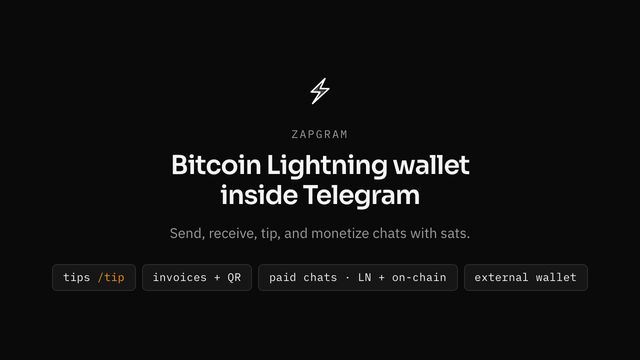
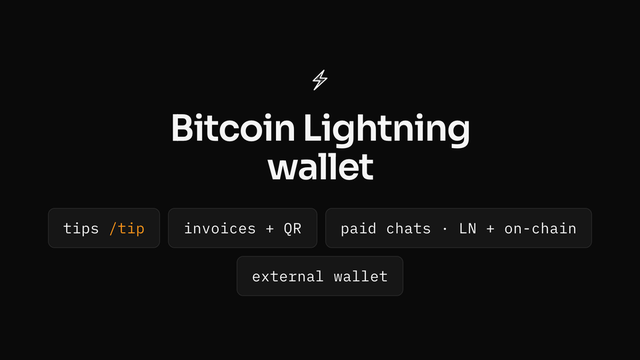
feat: update bot description media and rendering process

diff --git a/landing/public/assets/bot-description-card-ru.html b/landing/public/assets/bot-description-card-ru.html
@@ -2,7 +2,7 @@
 <html lang="ru">
   <head>
     <meta charset="utf-8" />
-    <meta name="viewport" content="width=640" />
+    <meta name="viewport" content="width=960" />
     <title>ZapGram · bot description RU</title>
     <style>
       /* Sora has no Cyrillic — IBM Plex for consistent RU glyphs */
@@ -22,24 +22,6 @@
         font-weight: 600;
         font-display: block;
         src: url('./fonts/ibm-plex-sans-cyrillic-600-normal.woff2') format('woff2');
-        unicode-range: U+0301, U+0400-045F, U+0490-0491, U+04B0-04B1, U+2116;
-      }
-      @font-face {
-        font-family: 'IBM Plex Sans';
-        font-style: normal;
-        font-weight: 400;
-        font-display: block;
-        src: url('./fonts/ibm-plex-sans-latin-400-normal.woff2') format('woff2');
-        unicode-range: U+0000-00FF, U+0131, U+0152-0153, U+02BB-02BC, U+02C6, U+02DA, U+02DC,
-          U+0304, U+0308, U+0329, U+2000-206F, U+20AC, U+2122, U+2191, U+2193, U+2212, U+2215,
-          U+FEFF, U+FFFD;
-      }
-      @font-face {
-        font-family: 'IBM Plex Sans';
-        font-style: normal;
-        font-weight: 400;
-        font-display: block;
-        src: url('./fonts/ibm-plex-sans-cyrillic-400-normal.woff2') format('woff2');
         unicode-range: U+0301, U+0400-045F, U+0490-0491, U+04B0-04B1, U+2116;
       }
       @font-face {
@@ -69,8 +51,8 @@
 
       html,
       body {
-        width: 640px;
-        height: 360px;
+        width: 960px;
+        height: 540px;
         overflow: hidden;
         background: #0a0a0a;
         color: #f5f5f5;
@@ -80,21 +62,21 @@
       }
 
       .card {
-        width: 640px;
-        height: 360px;
+        width: 960px;
+        height: 540px;
         display: flex;
         flex-direction: column;
         align-items: center;
         justify-content: center;
-        padding: 28px 32px 30px;
+        padding: 28px 28px 32px;
         text-align: center;
         background: #0a0a0a;
       }
 
       .mark {
-        width: 48px;
-        height: 48px;
-        margin-bottom: 12px;
+        width: 56px;
+        height: 56px;
+        margin-bottom: 16px;
         flex-shrink: 0;
         background: #0a0a0a;
       }
@@ -106,55 +88,35 @@
         object-fit: contain;
       }
 
-      .brand {
-        font-family: 'IBM Plex Mono', ui-monospace, monospace;
-        font-weight: 400;
-        font-size: 11px;
-        letter-spacing: 0.14em;
-        text-transform: uppercase;
-        color: #9a9a9a;
-        margin-bottom: 10px;
-      }
-
       h1 {
         font-family: 'IBM Plex Sans', system-ui, sans-serif;
         font-weight: 600;
-        font-size: 24px;
-        line-height: 1.15;
+        font-size: 50px;
+        line-height: 1.1;
         letter-spacing: -0.025em;
-        max-width: 20ch;
+        max-width: 16ch;
         color: #f5f5f5;
-      }
-
-      p {
-        margin-top: 12px;
-        font-family: 'IBM Plex Sans', system-ui, sans-serif;
-        font-weight: 400;
-        font-size: 14px;
-        line-height: 1.45;
-        color: #9a9a9a;
-        max-width: 30rem;
       }
 
       .chips {
         display: flex;
         flex-wrap: wrap;
         justify-content: center;
-        gap: 6px;
-        margin-top: 20px;
-        max-width: 580px;
+        gap: 12px;
+        margin-top: 32px;
+        max-width: 900px;
       }
 
       .chip {
         font-family: 'IBM Plex Mono', ui-monospace, monospace;
-        font-size: 11px;
+        font-size: 22px;
         line-height: 1;
         letter-spacing: 0.02em;
         color: #f5f5f5;
         background: #161616;
         border: 1px solid #2a2a2a;
-        border-radius: 5px;
-        padding: 7px 10px;
+        border-radius: 10px;
+        padding: 18px 22px;
         white-space: nowrap;
       }
 
@@ -167,11 +129,9 @@
   <body>
     <div class="card">
       <div class="mark" aria-hidden="true">
-        <img src="./logo.svg" alt="" width="48" height="48" />
+        <img src="./logo.svg" alt="" width="56" height="56" />
       </div>
-      <div class="brand">ZapGram</div>
-      <h1>Bitcoin Lightning-кошелёк в Telegram</h1>
-      <p>Отправляйте, получайте, оставляйте tips и монетизируйте чаты в сатоши.</p>
+      <h1>Bitcoin Lightning-кошелёк</h1>
       <div class="chips" aria-hidden="true">
         <span class="chip">tips <em>/tip</em></span>
         <span class="chip">инвойсы + QR</span>

diff --git a/landing/public/assets/bot-description-card.html b/landing/public/assets/bot-description-card.html
@@ -2,7 +2,7 @@
 <html lang="en">
   <head>
     <meta charset="utf-8" />
-    <meta name="viewport" content="width=640" />
+    <meta name="viewport" content="width=960" />
     <title>ZapGram · bot description EN</title>
     <style>
       @font-face {
@@ -11,13 +11,6 @@
         font-weight: 600;
         font-display: block;
         src: url('./fonts/sora-latin-600-normal.woff2') format('woff2');
-      }
-      @font-face {
-        font-family: 'IBM Plex Sans';
-        font-style: normal;
-        font-weight: 400;
-        font-display: block;
-        src: url('./fonts/ibm-plex-sans-latin-400-normal.woff2') format('woff2');
       }
       @font-face {
         font-family: 'IBM Plex Mono';
@@ -35,8 +28,8 @@
 
       html,
       body {
-        width: 640px;
-        height: 360px;
+        width: 960px;
+        height: 540px;
         overflow: hidden;
         background: #0a0a0a;
         color: #f5f5f5;
@@ -46,21 +39,21 @@
       }
 
       .card {
-        width: 640px;
-        height: 360px;
+        width: 960px;
+        height: 540px;
         display: flex;
         flex-direction: column;
         align-items: center;
         justify-content: center;
-        padding: 28px 36px 30px;
+        padding: 28px 32px 32px;
         text-align: center;
         background: #0a0a0a;
       }
 
       .mark {
-        width: 48px;
-        height: 48px;
-        margin-bottom: 12px;
+        width: 56px;
+        height: 56px;
+        margin-bottom: 16px;
         flex-shrink: 0;
         background: #0a0a0a;
       }
@@ -72,55 +65,35 @@
         object-fit: contain;
       }
 
-      .brand {
-        font-family: 'IBM Plex Mono', ui-monospace, monospace;
-        font-weight: 400;
-        font-size: 11px;
-        letter-spacing: 0.14em;
-        text-transform: uppercase;
-        color: #9a9a9a;
-        margin-bottom: 10px;
-      }
-
       h1 {
         font-family: 'Sora', system-ui, sans-serif;
         font-weight: 600;
-        font-size: 26px;
-        line-height: 1.15;
+        font-size: 54px;
+        line-height: 1.08;
         letter-spacing: -0.03em;
-        max-width: 18ch;
+        max-width: 14ch;
         color: #f5f5f5;
-      }
-
-      p {
-        margin-top: 12px;
-        font-family: 'IBM Plex Sans', system-ui, sans-serif;
-        font-weight: 400;
-        font-size: 14px;
-        line-height: 1.45;
-        color: #9a9a9a;
-        max-width: 28rem;
       }
 
       .chips {
         display: flex;
         flex-wrap: wrap;
         justify-content: center;
-        gap: 6px;
-        margin-top: 20px;
-        max-width: 580px;
+        gap: 12px;
+        margin-top: 32px;
+        max-width: 900px;
       }
 
       .chip {
         font-family: 'IBM Plex Mono', ui-monospace, monospace;
-        font-size: 11px;
+        font-size: 22px;
         line-height: 1;
         letter-spacing: 0.02em;
         color: #f5f5f5;
         background: #161616;
         border: 1px solid #2a2a2a;
-        border-radius: 5px;
-        padding: 7px 10px;
+        border-radius: 10px;
+        padding: 18px 22px;
         white-space: nowrap;
       }
 
@@ -133,11 +106,9 @@
   <body>
     <div class="card">
       <div class="mark" aria-hidden="true">
-        <img src="./logo.svg" alt="" width="48" height="48" />
+        <img src="./logo.svg" alt="" width="56" height="56" />
       </div>
-      <div class="brand">ZapGram</div>
-      <h1>Bitcoin Lightning wallet inside Telegram</h1>
-      <p>Send, receive, tip, and monetize chats with sats.</p>
+      <h1>Bitcoin Lightning wallet</h1>
       <div class="chips" aria-hidden="true">
         <span class="chip">tips <em>/tip</em></span>
         <span class="chip">invoices + QR</span>

diff --git a/src/bootstrap/configure-bot.ts b/src/bootstrap/configure-bot.ts
@@ -36,9 +36,8 @@ const adminBroadcastRu = {
 
 /**
  * Empty-chat **picture** is not settable via Bot API (only BotFather
- * “Edit Description Picture”, static photo **640×360**). Sources + PNGs:
- *   landing/public/assets/bot-description-card{,-ru}.html
- *   assets/bot-description/bot-description-{en,ru}.png
+ * “Edit Description Picture”). Media + regenerate (landing assets):
+ *   landing/public/assets/bot-description-{en,ru}.{png,gif}
  *   bun landing/scripts/render-og.mjs
  */
 

diff --git a/landing/README.md b/landing/README.md
@@ -24,30 +24,29 @@ landing/
     assets/og-card-ru.html   # OG RU source
     assets/og.png            # EN Open Graph / Twitter 1200×630
     assets/og-ru.png         # RU Open Graph / Twitter 1200×630
-    assets/bot-description-card.html    # bot empty-chat preview EN
-    assets/bot-description-card-ru.html # bot empty-chat preview RU
-    assets/bot-description-en.png       # EN bot description picture 640×360
-    assets/bot-description-ru.png       # RU bot description picture 640×360
+    assets/bot-description-card.html    # bot empty-chat preview EN (source)
+    assets/bot-description-card-ru.html # bot empty-chat preview RU (source)
+    assets/bot-description-en.png       # BotFather photo 640×360 EN
+    assets/bot-description-ru.png       # BotFather photo 640×360 RU
+    assets/bot-description-en.gif       # BotFather GIF 960×540 EN
+    assets/bot-description-ru.gif       # BotFather GIF 960×540 RU
     assets/fonts/            # self-hosted Sora + IBM Plex (woff2)
     robots.txt
     sitemap.xml
     llms.txt               # AI agent context
     pricing.md             # machine-readable fees
-  scripts/render-og.mjs    # HTML → PNG via Chromium (OG + bot description)
+  scripts/render-og.mjs    # HTML → PNG/GIF via Chromium (OG + bot description)
   Dockerfile               # production nginx image with minified CSS
   nginx.conf               # compression, caching, locale-aware 404
   README.md
-
-# Also copied for BotFather upload (API cannot set description media):
-assets/bot-description/    # bot-description-en.png, bot-description-ru.png
 ```
 
-### Bot description pictures
+### Bot description media
 
-Empty-chat preview cards (logo + headline + feature chips). Regenerate with
-`bun landing/scripts/render-og.mjs`. Install via BotFather → Edit Description
-Picture (one image per bot; not per language). See
-`assets/bot-description/README.md`.
+Empty-chat preview for BotFather (**photo 640×360** or **GIF 960×540**). Sources
+and outputs live under `public/assets/`. Regenerate with
+`bun landing/scripts/render-og.mjs`. Upload via BotFather → Edit Description
+Picture (one media slot per bot, not per language).
 
 ## 404 routing (nginx)
 
